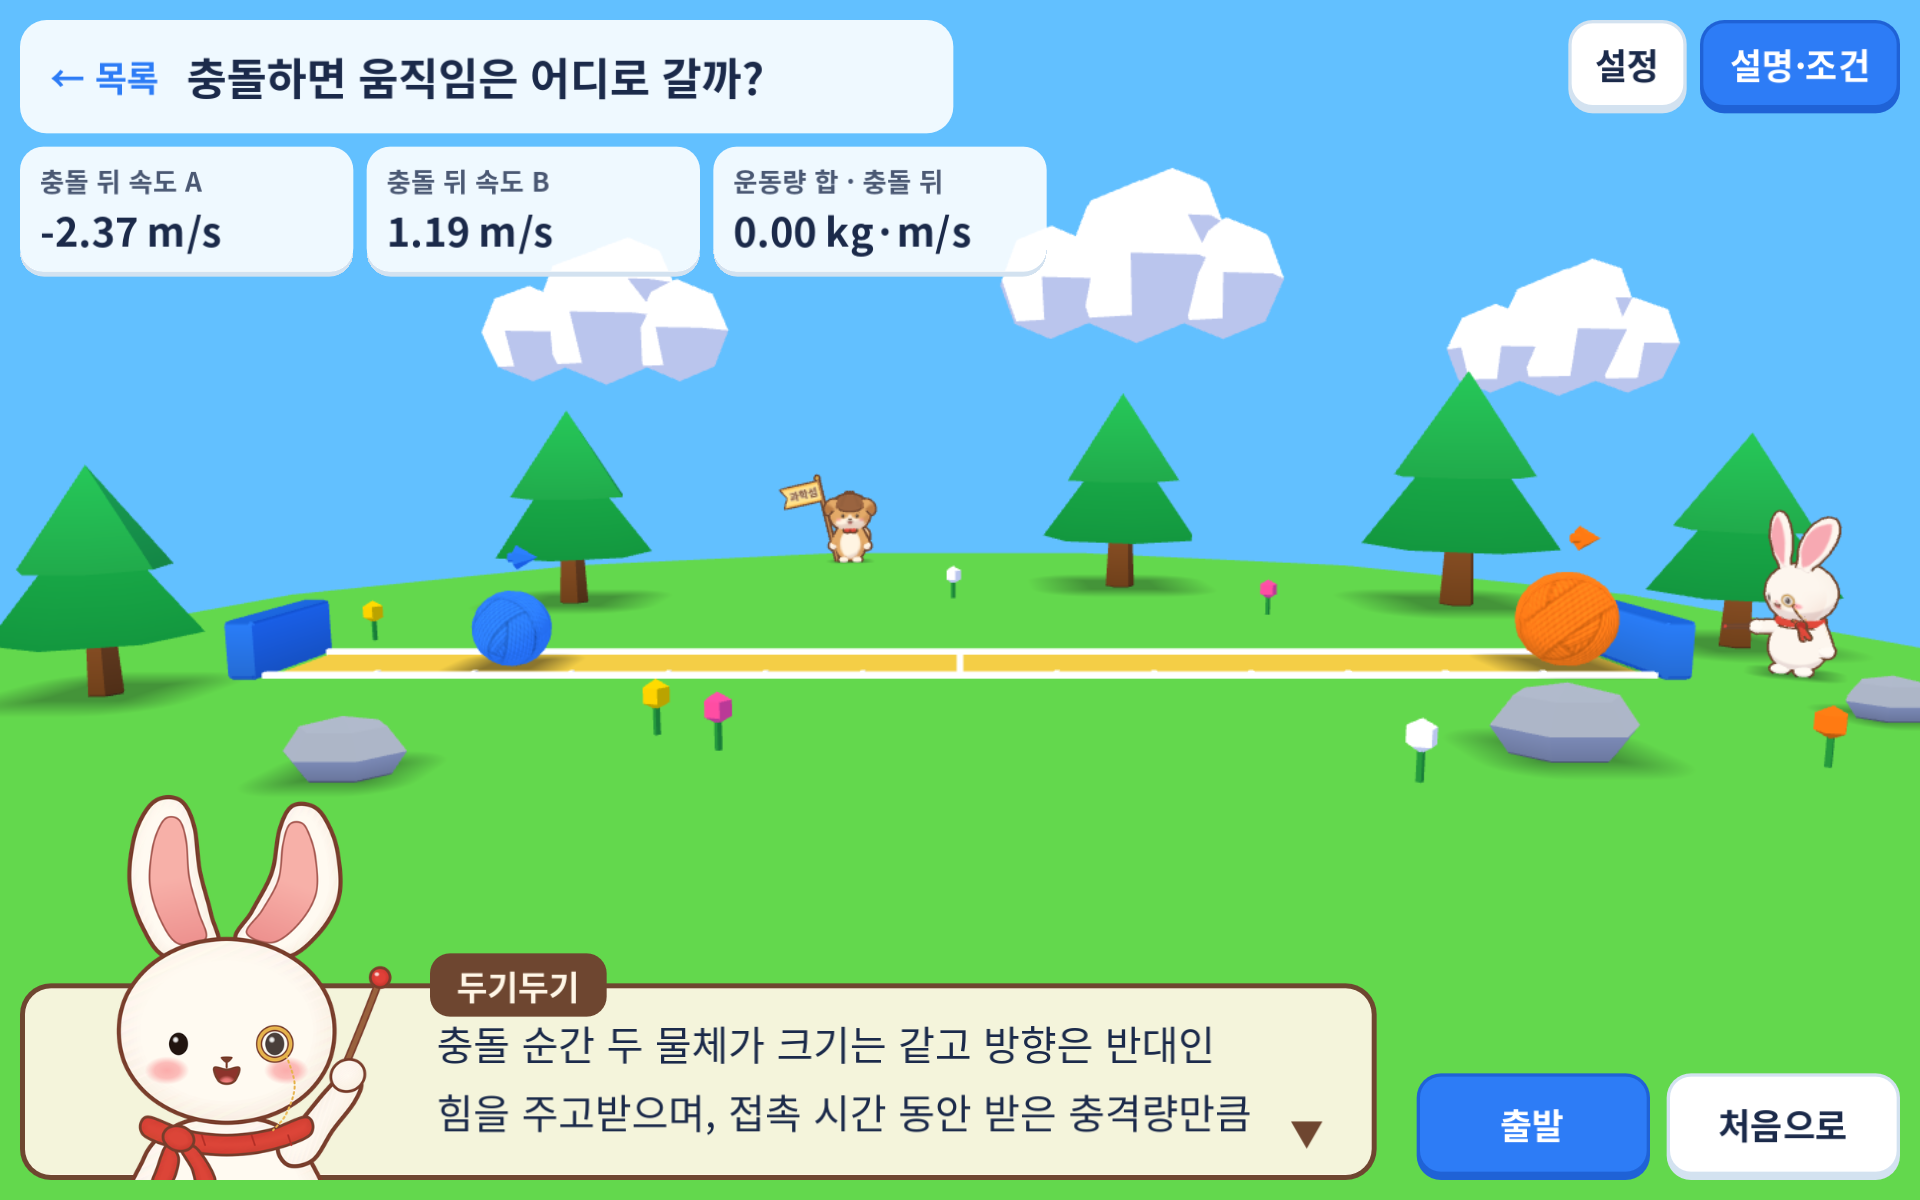
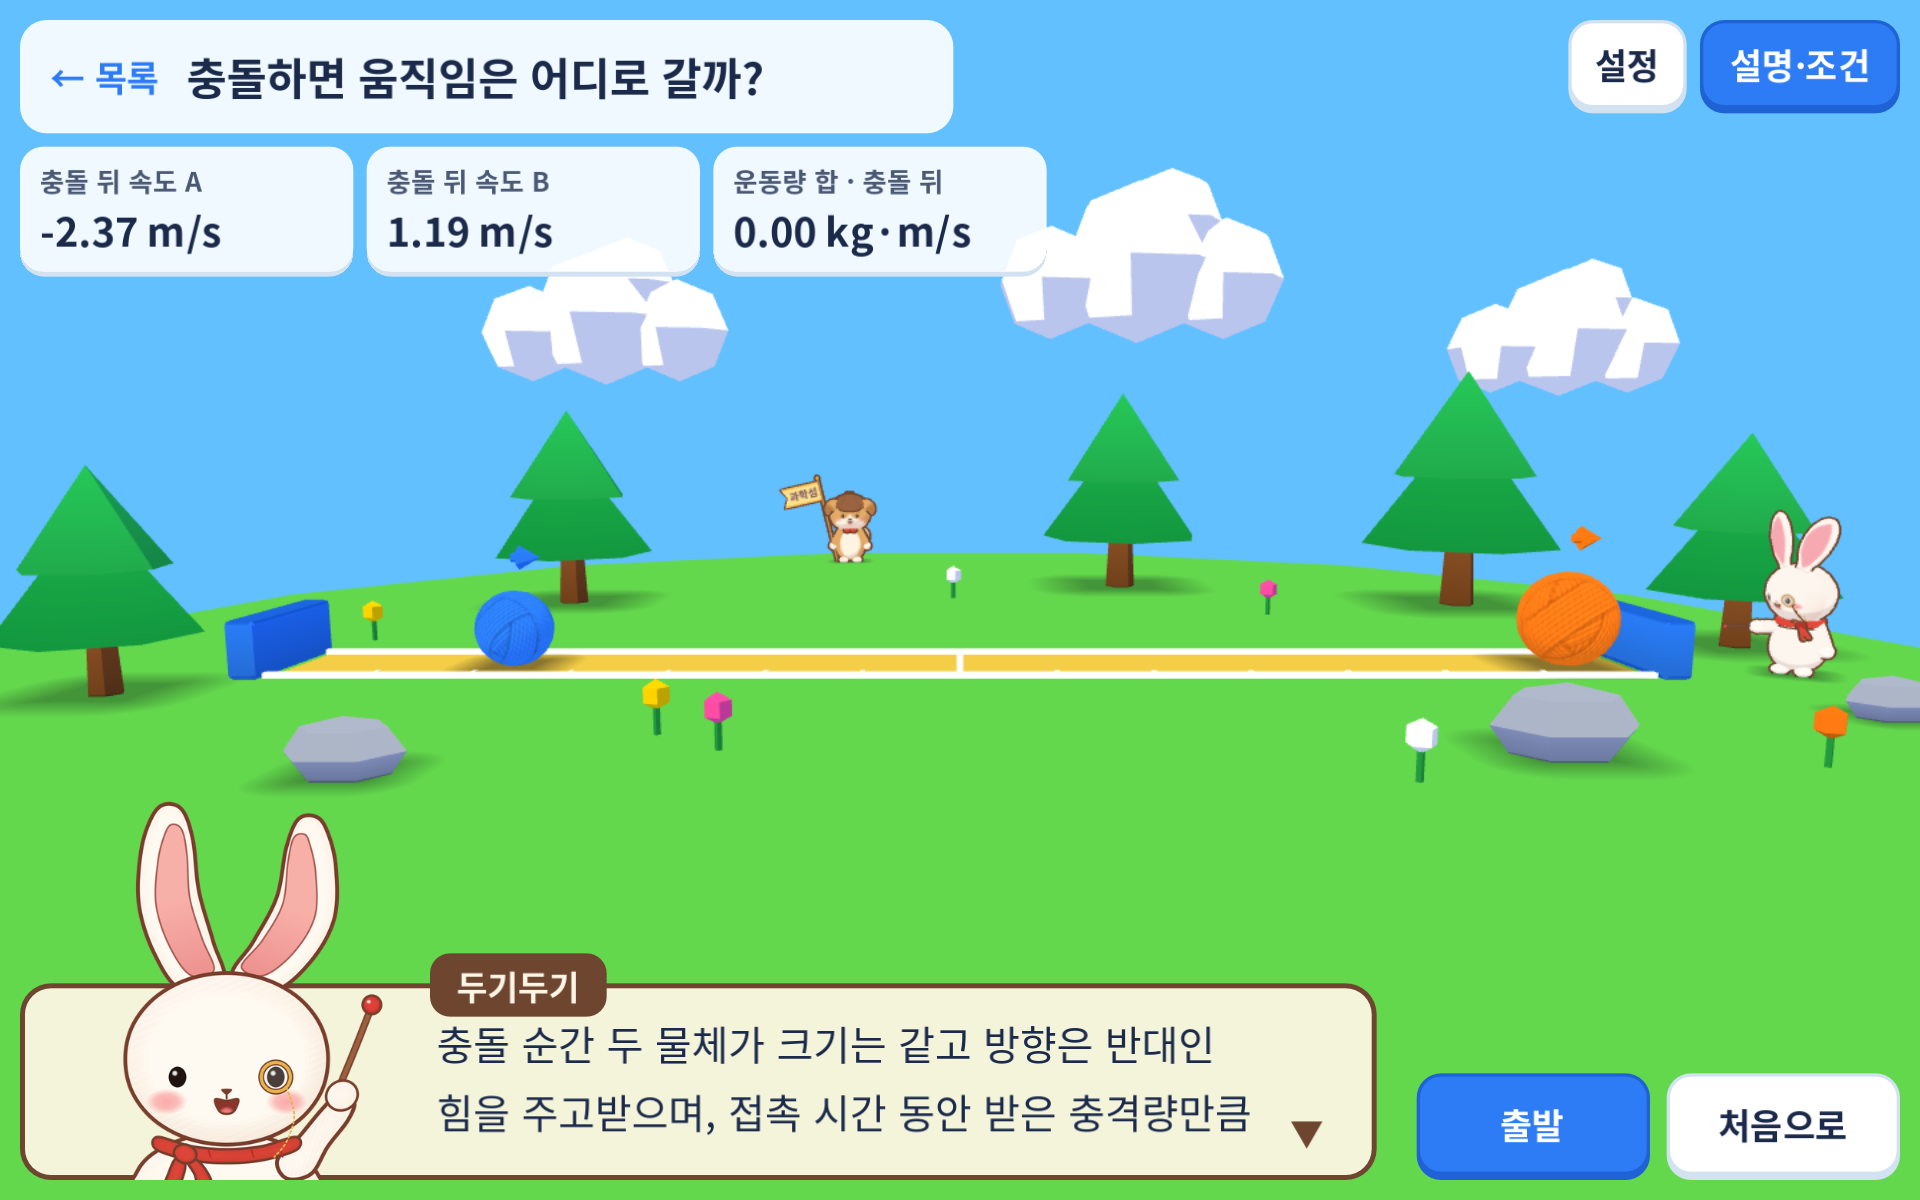
feat: 2D 초상화 귀를 참고처럼 길게, 눈을 낮고 넓게, 가장자리 그늘

Changed region(s): [[0.0625, 0.6475, 0.2188, 0.9867], [0.25, 0.5242, 0.2812, 0.555]]

diff --git a/apps/lab3d/art_src/characters/dugi_portrait_2d.py b/apps/lab3d/art_src/characters/dugi_portrait_2d.py
@@ -155,44 +155,41 @@ def draw(expr, size):
     surf = cairo.ImageSurface(cairo.FORMAT_ARGB32, S, S)
     ctx = cairo.Context(surf)
     ctx.scale(S / BASE, S / BASE)
-    ctx.translate(256, 512)   # bust framing: a little closer than the page layout
-    ctx.scale(1.08, 1.08)
-    ctx.translate(-256, -512)
     ctx.set_line_join(cairo.LINE_JOIN_ROUND)
     ctx.set_line_cap(cairo.LINE_CAP_ROUND)
     ctx.set_antialias(cairo.ANTIALIAS_BEST)
 
-    hx, hy, hrx, hry = 256.0, 330.0, 130.0, 113.0   # head 1.15 : 1
+    hx, hy, hrx, hry = 256.0, 352.0, 132.0, 114.0   # head 1.15 : 1
 
     # Shoulders (cut by the frame).
-    body = [(150, 560), (156, 486), (196, 446), (256, 436), (316, 446), (356, 486), (362, 560)]
+    body = [(130, 580), (140, 500), (190, 462), (256, 452), (322, 462), (372, 500), (382, 580)]
     shape(ctx, body, FUR, OUTER_W)
 
     # The pointing arm (behind the scarf), paw and stick.
     if expr == "point":
-        arm = [(318, 470), (346, 440), (376, 404), (398, 384), (418, 394), (410, 418), (384, 452), (360, 488), (330, 494)]
+        arm = [(322, 486), (350, 456), (380, 420), (402, 400), (422, 410), (414, 434), (388, 468), (366, 504), (334, 510)]
         shape(ctx, arm, FUR, OUTER_W, light=(-0.9, -0.3))
-        stick = [(394, 386), (418, 328), (440, 272)]
+        stick = [(398, 402), (422, 344), (444, 288)]
         stroke_line(ctx, stick, 9.5, LINE)
         stroke_line(ctx, stick, 5.5, STICK)
-        shape(ctx, ellipse_pts(441, 268, 12, 12), TIP, INNER_W, edge=(0.6, 0.12, 0.1), edge_w=6, edge_a=0.6)
-        soft_dot(ctx, 437, 264, 3.5, 3.0, (1, 1, 1), 0.85)
-        shape(ctx, ellipse_pts(402, 386, 21, 19, rot=-0.5), FUR, INNER_W, light=(-0.6, -0.8))
+        shape(ctx, ellipse_pts(445, 284, 12, 12), TIP, INNER_W, edge=(0.6, 0.12, 0.1), edge_w=6, edge_a=0.6)
+        soft_dot(ctx, 441, 280, 3.5, 3.0, (1, 1, 1), 0.85)
+        shape(ctx, ellipse_pts(406, 402, 21, 19, rot=-0.5), FUR, INNER_W, light=(-0.6, -0.8))
 
     # Scarf: a band around the neck, a knot at the viewer's left, two short tails.
-    scarf = [(160, 436), (206, 452), (256, 458), (306, 452), (352, 436), (356, 458), (308, 476), (256, 482), (204, 476), (156, 458)]
+    scarf = [(166, 456), (210, 468), (256, 472), (302, 468), (346, 456), (348, 472), (304, 486), (256, 490), (208, 486), (164, 472)]
     shape(ctx, scarf, SCARF, INNER_W, edge=SCARF_EDGE, edge_w=10, edge_a=0.5)
-    for x in (226, 286, 330):   # simple folds
-        stroke_line(ctx, [(x, 458), (x + 4, 470)], 2.2, SCARF_EDGE)
-    for tail in ([(184, 470), (172, 498), (166, 520), (188, 518), (198, 486)], [(200, 472), (214, 498), (222, 520), (242, 512), (220, 474)]):
+    for x in (232, 288, 326):   # simple folds
+        stroke_line(ctx, [(x, 472), (x + 3, 482)], 2.0, SCARF_EDGE)
+    for tail in ([(190, 484), (180, 504), (176, 520), (194, 518), (202, 492)], [(204, 486), (214, 504), (220, 520), (236, 514), (220, 488)]):
         shape(ctx, tail, SCARF, INNER_W, edge=SCARF_EDGE, edge_w=8, edge_a=0.5)
-    shape(ctx, ellipse_pts(198, 462, 19, 15, rot=0.3), SCARF, INNER_W, edge=SCARF_EDGE, edge_w=8, edge_a=0.6)
+    shape(ctx, ellipse_pts(202, 478, 15, 12, rot=0.3), SCARF, INNER_W, edge=SCARF_EDGE, edge_w=6, edge_a=0.6)
 
     # Ears: long and splayed, the viewer's left one nearly upright, the right one leaning and bowing out.
     splay = 1.25 if expr == "smile" else 1.0
-    for root, length, half_w, tilt, bend in (((214, 238), 190, 43, -0.18 * splay, -16), ((296, 234), 184, 43, 0.34 * splay, 26)):
+    for root, length, half_w, tilt, bend in (((224, 258), 240, 40, -0.20 * splay, -20), ((290, 256), 232, 40, 0.36 * splay, 30)):
         outer = ear_pts(root, length, half_w, tilt, bend)
-        inner = ear_pts((root[0], root[1] - 14), length * 0.80, half_w * 0.56, tilt, bend * 0.85)
+        inner = ear_pts((root[0], root[1] - 16), length * 0.82, half_w * 0.56, tilt, bend * 0.95)
         shape(ctx, outer, FUR, OUTER_W, light=(-0.8, -0.4), edge_w=14)
         smooth(ctx, inner)
         g = cairo.LinearGradient(root[0], root[1] - 12, root[0] + math.sin(tilt) * length, root[1] - math.cos(tilt) * length)
@@ -212,10 +209,10 @@ def draw(expr, size):
         c, s = math.cos(a), math.sin(a)
         rx = hrx * (1.0 + 0.04 * max(0.0, s))
         head.append((hx + rx * c, hy + hry * s * (0.96 if s < 0 else 1.0)))
-    shape(ctx, head, FUR, OUTER_W, edge_w=26, edge_a=0.6)
+    shape(ctx, head, FUR, OUTER_W, edge_w=30, edge_a=0.95)
 
     # Face.
-    ex_l, ex_r, ey = hx - 58, hx + 58, hy + 18
+    ex_l, ex_r, ey = hx - 64, hx + 64, hy + 26
     soft_dot(ctx, ex_l - 14, ey + 32, 27, 17, BLUSH, 0.85)
     soft_dot(ctx, ex_r + 14, ey + 32, 27, 17, BLUSH, 0.85)
     if expr == "smile":

diff --git a/apps/lab3d/docs/art-direction.md b/apps/lab3d/docs/art-direction.md
@@ -443,7 +443,7 @@ Blender 참고 그림(갈색 외곽선 + 한 단계 셀 셰이딩)과 같은 동
 
 - 상자: 3D 뷰 아래쪽, 왼쪽 여백(12)부터 액션 버튼 왼쪽까지(두기두기가 그 높이에 서 있으면 그의 왼쪽까지). 크림색 종이 `UiTheme.DIALOGUE_PAPER` `#fff6e6`(불투명도 93 %), 캐릭터 외곽선 갈색 테두리 3 단위(`ArtPalette.OUTLINE`), 모서리 18. 위 가장자리에 갈색 이름표 "두기두기"(크림 글자 20). 글 24 단위(SM-P200 가로에서 40 px), 2줄.
 - 초상화: 두기두기 상반신 236 × 236 단위가 늘 상자 왼쪽 끝에 서서 위 가장자리를 넘고(옛날 게임 대화창처럼 자리가 늘 같다, 2026-10-24 사용자 결정), 이름표는 그 오른쪽 위에 붙는다. 초상화·상자가 가리키는 점을 덮지 않는 것은 상자를 옮겨서가 아니라 실험 자리로 지킨다: 실험마다 한 번 실행하는 동안 표본으로 뽑은 가리키는 점(움직이는 몸체 포함)이 대화창 위에 있는지 시험한다(11개 실험 × 폰·태블릿). 글은 초상화 폭의 94 %(막대 끝)를 피해 시작한다. 표정: 첫 쪽은 막대를 든 "point"(막대가 오른쪽, 글과 장면 쪽), 다음 쪽은 "talk", 마지막 쪽을 다 보이면 "smile".
-- 초상화 그림(2026-10-24 사용자 요청 "캡처본 말고 원래 준 2D 그림처럼", 이어서 "잉크 선이 너무 별로임. 원본에 가깝게"): 사용자 참고 그림(두기두기 토끼, 동화책 장면)처럼 깔끔한 2D 일러스트다. 매끈하고 안티에일리어싱된 따뜻한 적갈색 선(굵기 거의 일정, 바깥 실루엣 5 · 안쪽 3.4, 512 px 기준), 평평한 크림색 칠에 가장자리만 아주 부드러운 그늘, 바깥으로 벌어지며 살짝 휜 긴 귀와 부드러운 분홍 속귀(그러데이션), 가로:세로 약 1.15의 둥근 머리, 흰 점 하나가 있는 작은 검은 눈, 작은 코, 혀가 보이는 웃는 입, 둥근 분홍 볼, 매듭 있는 빨간 스카프. 3D 모델과 맞춘 금색 외눈 안경(보는 사람 기준 오른쪽 눈)·가는 사슬과 가리키는 표정의 막대(빨간 끝)도 같은 선으로 그린다. 모든 모양은 매끈한 베지어 곡선(Catmull-Rom 점 → 3차 곡선)을 cairo로 채우고 그은 것이고 흔들림·종이 결·수채 얼룩은 없다. `art_src/characters/dugi_portrait_2d.py`(`python3 apps/lab3d/art_src/characters/dugi_portrait_2d.py --out apps/lab3d/assets/characters/portraits`, pycairo + Pillow) → `assets/characters/portraits/dugi_{point,talk,smile}.webp`(512 px, 무손실 WebP, 투명 배경, 각 76–90 KB). 난수가 없어 실행할 때마다 같은 파일이 나온다. 앞선 3D 렌더 초상화와 거친 잉크 선 판은 버렸다.
+- 초상화 그림(2026-10-24 사용자 요청 "캡처본 말고 원래 준 2D 그림처럼", 이어서 "잉크 선이 너무 별로임. 원본에 가깝게"): 사용자 참고 그림(두기두기 토끼, 동화책 장면)처럼 깔끔한 2D 일러스트다. 매끈하고 안티에일리어싱된 따뜻한 적갈색 선(굵기 거의 일정, 바깥 실루엣 5 · 안쪽 3.4, 512 px 기준), 평평한 크림색 칠에 가장자리만 아주 부드러운 그늘, 바깥으로 벌어지며 살짝 휜 긴 귀와 부드러운 분홍 속귀(그러데이션), 가로:세로 약 1.15의 둥근 머리, 흰 점 하나가 있는 작은 검은 눈, 작은 코, 혀가 보이는 웃는 입, 둥근 분홍 볼, 매듭 있는 빨간 스카프. 3D 모델과 맞춘 금색 외눈 안경(보는 사람 기준 오른쪽 눈)·가는 사슬과 가리키는 표정의 막대(빨간 끝)도 같은 선으로 그린다. 모든 모양은 매끈한 베지어 곡선(Catmull-Rom 점 → 3차 곡선)을 cairo로 채우고 그은 것이고 흔들림·종이 결·수채 얼룩은 없다. `art_src/characters/dugi_portrait_2d.py`(`python3 apps/lab3d/art_src/characters/dugi_portrait_2d.py --out apps/lab3d/assets/characters/portraits`, pycairo + Pillow) → `assets/characters/portraits/dugi_{point,talk,smile}.webp`(512 px, 무손실 WebP, 투명 배경, 각 72–86 KB). 난수가 없어 실행할 때마다 같은 파일이 나온다. 앞선 3D 렌더 초상화와 거친 잉크 선 판은 버렸다.
 - 글: 실험의 `observe`(사이드바 관찰 포인트와 같은 문구)를 그대로 쓰고, 띄어쓰기 자리에서만 줄·쪽을 나눈다(2줄이 한 쪽, 넘치는 낱말은 글자 사이에서). 쪽을 다시 이으면 원문과 같다(시험, 11개 실험 × 폰·태블릿). 충돌 문구는 태블릿에서 2쪽이다.
 - 동작: 한 쪽을 초당 28글자로 타자 치듯 보인다. 탭하면 그 쪽을 다 보이고, 다시 탭하면 다음 쪽, 마지막 쪽에서 탭하면 닫힌다. 손대지 않으면 다 보인 쪽은 3초 + 글자당 0.06초 뒤 넘어가고 마지막 쪽 뒤 닫힌다. ▼는 쪽을 다 보였을 때 2 Hz로 깜빡인다. 닫히면 두기두기가 팔을 내린다. 대화창은 상자와 초상화 몸통(아래 2/3)의 탭만 받는다. 상자 위 빈 띠와 초상화 귀 쪽은 3D 뷰로 지나간다(그 아래 한 손가락 조작·카메라 제스처는 그대로).
 - 겹침 규칙(시험): 상자·초상화가 뷰 안, 제목·핵심 카드·위 버튼·액션·안내와 겹치지 않고, 3D 두기두기와 그가 가리키는 점을 덮지 않는다. 사이드바가 열리면 그 프레임에 닫힌다(그 프레임의 탭이 버튼에 닿게). 사이드바가 열려 있는 동안 시작한 설명은 가리키기만 한다. 두기두기가 멈추면(액션·조건·처음으로) 바로 닫힌다. 처음 여는 실험의 몸짓 안내는 대화창이 열리면 사라진다.
